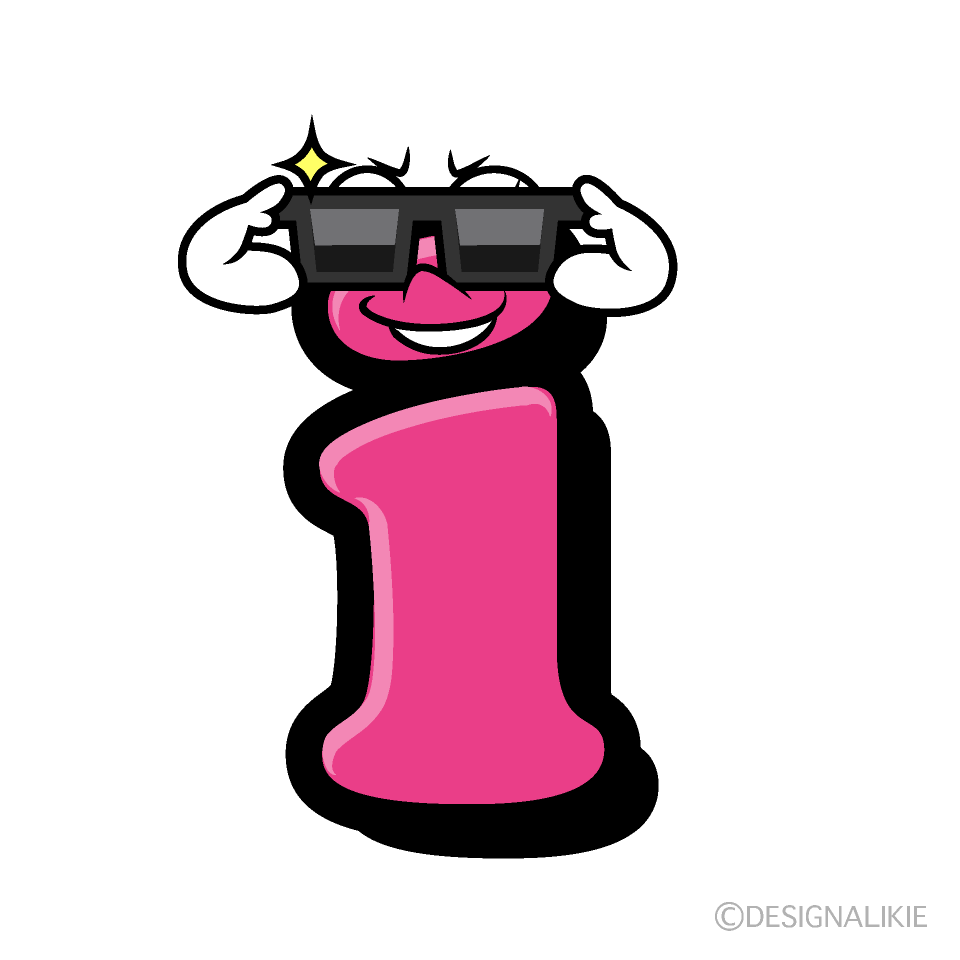
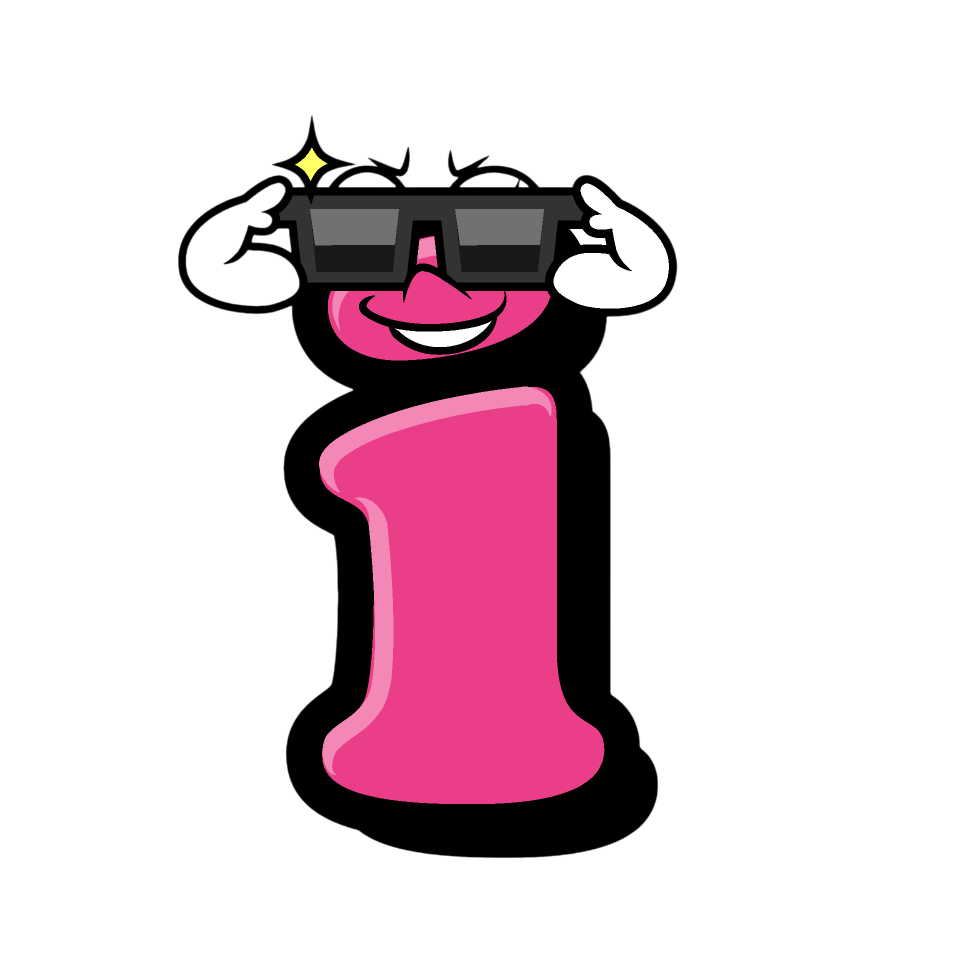
avances ana

diff --git a/style.css b/style.css
@@ -4,11 +4,14 @@
     margin: 0;
     padding: 0;
     box-sizing: border-box;
+    text-decoration: none;
+    text-transform: capitalize;
     list-style: none;
+    font-family: 'Poppins', sans-serif;
+    
 }
 
 body{
-    font-family: 'Poppins', sans-serif;
     background: #f5f5f5;
 }
 
@@ -19,13 +22,14 @@ header{
     background-position: center bottom;
     background-repeat: no-repeat;
     min-height: 70vh;
+    display: flex;
     align-items: center;
   
 }
 
 .container{
-    max-width: 1200px;
-    margin: auto;
+    max-width: 1100px;
+    margin: 0 auto;
    
 }
 
@@ -40,8 +44,8 @@ header{
     z-index: 1000;
 }
 .menu .logo{
-    font-size: 24px;
-    font-weight: 600;
+    font-size: 25px;
+    font-weight: 700;
     color:white;
 }
 
@@ -50,8 +54,22 @@ header{
     float: left;
     }
 .menu.navbar ul li a{
-    font-size: 10px;
+    font-size: 18px;
     color: white;
     padding: 20px;
     display: block;
+}
+
+.menu .navbar ul li a:hover{
+    color: #0eaeff;
+    transition: .3s;
+}
+#menu {
+    display: none;
+}
+.menu-icono {
+    width: 25px;
+}
+.menu label {
+    cursor: pointer;
 }

diff --git a/SOLID.html b/SOLID.html
@@ -9,19 +9,26 @@
 </head>
 <body>
 
-    <h1>Principio I</h1>
-    <h2>Holaaaaa</h2>
 
     <header>
-        <nav class="menu">
-            <ul>
-                <li><a href="definicion.html">Definición</a></li>
-                <li><a href="ejemplo.html">Ejemplos</a></li>
-                <li><a href="buenas_practicas.html">Prácticas</a></li>
-                <li><a href="errores.html">Errores</a></li>
-            </ul>
-        </nav>
-        <div class="header-content">
+        <div class="menu container">
+            <a href="#" class="logo">Logo</a>
+            <input type="checkbox" id="menu">
+            <label for = "menu">
+                <img src = "imagenes/menu-btn.png" class = "menu-icono" alt = "">
+            </label>
+        </div>
+
+            <nav class="barra-navegacion">
+                <ul>
+                    <li><a href="inicio.html">Inicio</a></li>
+                    <li><a href="ejemplo.html">Ejemplos</a></li>
+                    <li><a href="buenas_practicas.html">Prácticas</a></li>
+                    <li><a href="errores.html">Errores</a></li>
+                </ul>
+            </nav>
+        </div>
+        <div class="header-definicion container">
             <div class="definicion">
                 <h1>Definición</h1>
                 <p>aqui se pone la definicion</p>